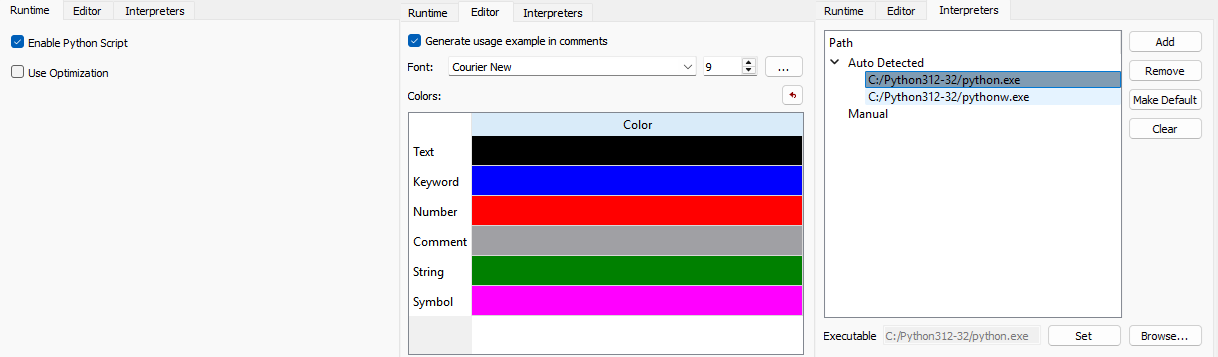
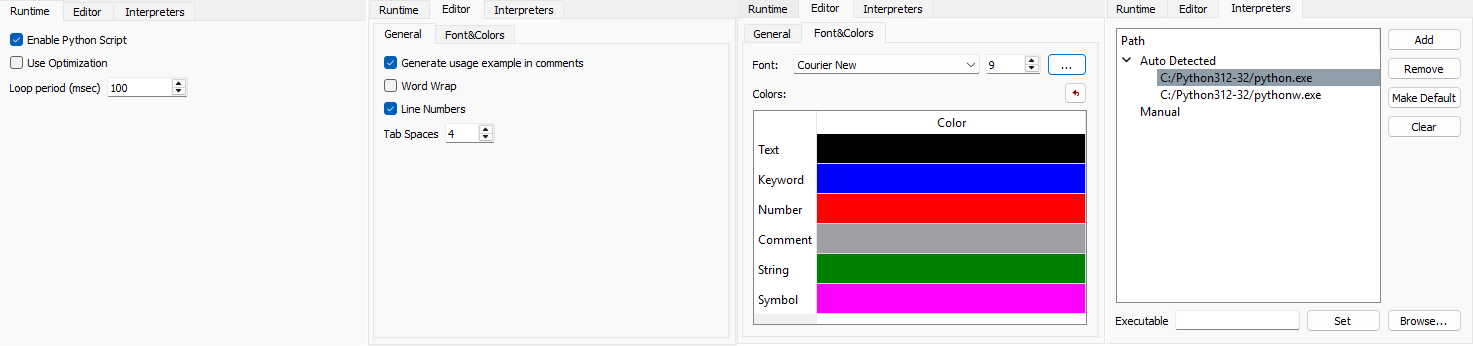
Update docs

diff --git a/doc/input/server/server.md b/doc/input/server/server.md
@@ -3,16 +3,18 @@
 # About Modbus Server {#sec_server_about}
 
 The server implements Modbus server device and works like Modbus simulator. 
-However, the server can  not only simulate single device, but can simulate several devices that can be connected to 
-a single network, which is especially useful when working with RTU and ASCII protocols,
-when access to all Modbus servers 
-is realized through a single serial port. However, it can also be useful to simulate Modbus network using the 
-TCP version of the protocol, for example, if you use the TCP->RTU bridge, Modbus server can replace this bridge with 
-remote devices for testing purposes.
+However, the server can  not only simulate single device, but can simulate
+several devices that can be connected to a single network,
+which is especially useful when working with RTU and ASCII protocols,
+when access to all Modbus servers is realized through a single serial port.
+However, it can also be useful to simulate Modbus network using the 
+TCP version of the protocol, for example, if you use the TCP->RTU bridge,
+Modbus server can replace this bridge with remote devices for testing purposes.
 
-All work is performing within a single project. The main entities in the project are Port, Device, 
-DataViewItem and Action.
-Port contains network settings for both TCP/IP and serial ports. Device contains settings for a single device 
+All work is performed within a single project.
+The main entities in the project are Port, Device, DataViewItem and Action.
+Port contains network settings for both TCP/IP and serial ports.
+Device contains settings for a single device 
 (such as Modbus Unit Address, memory size etc).  
 The DataViewItem contains a single data unit to be read/write from the device and has many formats to represent 
 the current data. Action provides simulation capabilities (automatic change of device memory values).
@@ -447,7 +449,7 @@ For port it displays port main settings, for device it displays device reference
 (Modbus device unit address(es) ).
 
 * `Modbus adr. notation` - using this setting item address representation can be changed:
-`Modbus (1-based)` or `IEC 61131-3 (0-based)`
+`Modbus (1-based)`, `IEC 61131-3 (0-based)` or `IEC 61131-3 Hex (0-based)`.
 
 ### DataView 
 
@@ -480,12 +482,16 @@ Assumed that date and time are 21 May 2001 14:13:09.120.
 #### Runtime
 
 * `Enable Python Script` - enables/disables Python script execution. 
-* `Use optimization` - enables/disables Python script source file generation. 
+* `Use Optimization` - enable/disable caching of script file generation;
+* `Loop period` - `Loop`-script execution period (in millisec);
 
 #### Editor
 
 * `Generate usage examples in comments` - generate examples of script usage in comment in the head of script.
 Maybe useful for first time using script. 
+* `Word Wrap` - enable/disable word wrap;
+* `Line Numbers` - enable/disable `Line Numbers` panel;
+* `Tab Spaces` - count of `Space` symbols for `Tab`-button;
 * `Font` - font setting for script source code displaying. 
 * `Color` - color setting for script source code displaying. 
 Included color schema for every time of script lexema (editing by mouse double-click)
@@ -529,6 +535,8 @@ Window for managing interpreter installed in operation system.
 * `Timeout (first byte)` - timeout waiting first byte for serial port;
 * `Timeout (inter byte)` - timeout waiting next bytes after first bytes was received, 
 after this timeout completes Modbus packet consider finished and return to process.
+* `Enable broadcast for 0-unit address` - if option is set then `0`-unit address
+will be recognized as broadcast and no response will be send.
 
 ## Device dialog
 
@@ -686,10 +694,10 @@ Every object has set of get/set function to work with different data types:
 
 Examples:
 ```python
- v = mem0x.getint8(0)
- mem1x.setint16(1, -1)
- mem3x.setuint16(0, 65535)
- mem4x.setdouble(10, 2.71828)
+v = mem0x.getint8(0)
+mem1x.setint16(1, -1)
+mem3x.setuint16(0, 65535)
+mem4x.setdouble(10, 2.71828)
 ```
 
 Also index operation is supported.
@@ -708,18 +716,29 @@ Scripting gives you access into current device settings by global object `mbdevi
 which has type `mbserver._MbDevice`. Example of usage:
 
 ```
- print("Device name is " + mbdevice.getname())
- print("Device exception status is " + hex(mbdevice.getexcstatus()))
- print("Device count of coils is " + hex(mbdevice.getcount0x()))
- print("Device count of discrete inputs is " + hex(mbdevice.getcount1x()))
- print("Device count of input registers is " + hex(mbdevice.getcount3x()))
- print("Device count of holding registers is " + hex(mbdevice.getcount4x()))
+print("Device name is " + mbdevice.getname())
+print("Device exception status is " + hex(mbdevice.getexcstatus()))
+print("Device count of coils is " + hex(mbdevice.getcount0x()))
+print("Device count of discrete inputs is " + hex(mbdevice.getcount1x()))
+print("Device count of input registers is " + hex(mbdevice.getcount3x()))
+print("Device count of holding registers is " + hex(mbdevice.getcount4x()))
+```
+
+Also `mem0x`, `mem1x`, `mem3x`, `mem4x` can be accessed through `mbdevice` object:
+
+```py
+new_mem0x_ref = mbdevice.getmem0x()
+new_mem1x_ref = mbdevice.getmem1x()
+new_mem3x_ref = mbdevice.getmem3x()
+new_mem4x_ref = mbdevice.getmem4x()
 ```
 
 ## Python `import` directories
 
 You need to use Python modules in case of big simulation projects.
-Or maybe you want to use you own Python modules for different devices within
+Or maybe you want to use your own Python modules for different devices within
 single project or for different projects.
+
 By default server add directory `<your_bin_folder>/script/server` into import path.
-Also current folder where `*.pjs` project file is located added into import path.
+
+Also current folder (where `*.pjs` project file is located) is added into import path.

diff --git a/doc/input/client/client.md b/doc/input/client/client.md
@@ -1,14 +1,20 @@
 \page sec_client Client
 
 # About Modbus Client
-The client implements access to a remote Modbus device. However, the client can work not only with one device, 
-but with several devices that can be connected to a single network, which is especially useful when working 
-with RTU and ASCII protocols, when access to all Modbus servers is realized through a single serial port. 
-However, it can also be useful when using the TCP version of the protocol, for example, if you use the TCP->RTU bridge.
 
-All work is done within a single project. The main entities in the project are Port, Device and DataViewItem. 
-Port contains network settings for both TCP/IP and serial ports. Device contains settings for a single device 
-(such as Modbus Unit Address, etc.).  The DataViewItem contains a single data unit to be read from the remote 
+The client implements access to a remote Modbus device.
+However, the client can work not only with one device, 
+but with several devices that can be connected to a single network,
+which is especially useful when working with RTU and ASCII protocols,
+when access to all Modbus servers is realized through a single serial port. 
+However, it can also be useful when using the TCP version of the protocol,
+for example, if you use the TCP->RTU bridge.
+
+All work is performed within a single project.
+The main entities in the project are Port, Device and DataViewItem. 
+Port contains network settings for both TCP/IP and serial ports.
+Device contains settings for a single device (such as Modbus Unit Address, etc.).
+The DataViewItem contains a single data unit to be read from the remote 
 device and has many formats to represent the current data.
 
 # Quickstart
@@ -31,8 +37,9 @@ In this dialog box, you can set the network settings for the port.
 
 ## Device
 
-To change the device settings, you need to double click left mouse button on the device name in the project tree 
-(or use the menu `Device->Edit Device...`). The device must be selected in the project tree. To add a new device, 
+To change the device settings, you need to double click left mouse button on the device name
+in the project tree (or use the menu `Device->Edit Device...`).
+The device must be selected in the project tree. To add a new device, 
 select `Device->New Device...` or `Port->New Device...` to immediately bind this device to the selected port.
 
 ![](client_device_dialog.png)
@@ -276,9 +283,17 @@ In this window individual message parameters can be set such as data address and
 and message response data can be reviewed with different formats. Message transmit (Tx) and 
 receive (Rx)  byte data can be viewed in corresponding `Tx` and `Rx`- labels.
 
-Message data (bits and registers values)  separated by comma with specified format can be viewed in the Data window for read function and set for write functions.
+`Device/Port` switch allows to choose message recipient: specified device or
+port with unit address (useful for `unit=0` broadcast address)
 
-* `Device` - device which message will belong to;
+Message data (bits and registers values)  separated by comma with specified format
+can be viewed in the Data window for read function and set for write functions.
+
+* `Device` - device which message will belong to (in case of `Device` switch on);
+* `Port` - port which message will belong to (in case of `Port/Unit` switch on);
+* `Unit` - unit/slave address to which the message will be sent
+(in case of `Port/Unit` switch on).
+`unit=0` indended for broadcast address (if `Enable Broadcast` is set in the port settings);
 
 * `Function` - supported Modbus functions such as:
 * `1 ` (`0x01`) - `READ_COILS`
@@ -367,7 +382,7 @@ For port it displays port main settings, for device it displays device reference
 (Modbus device unit address(es) ).
 
 * `Modbus adr. notation` - using this setting item address representation can be changed:
-`Modbus (1-based)` or `IEC 61131-3 (0-based)`
+`Modbus (1-based)`, `IEC 61131-3 (0-based)` or `IEC 61131-3 Hex (0-based)`.
 
 ### DataView 
 
@@ -427,6 +442,8 @@ Assumed that date and time are 21 May 2001 14:13:09.120.
 * `Timeout (first byte)` - timeout waiting first byte for serial port;
 * `Timeout (inter byte)` - timeout waiting next bytes after first bytes was received, 
 after this timeout completes Modbus packet consider finished and return to process.
+* `Enable broadcast for 0-unit address` - if option is set then `0`-unit address
+will be recognized as broadcast and no response will be expected.
 
 ## Device dialog
 

diff --git a/doc/input/mainpage.md b/doc/input/mainpage.md
@@ -36,6 +36,9 @@ __*New in version 0.4*__:
 > IEC61131-3 addressing type is available. There is a setting that allows you to choose between
 standard Modbus (1 based) and IEC61131-3 (0 based) addressing types.
 
+__*New in version 0.4.1*__:
+> IEC61131-3 Hex (0 based) addressing type is available, e.g. `%I0000h`, `%Q001Fh`, `%IW0B7Ch`, `%MW1A01h`.
+
 Memory types decribed below:
 
 * `0x` - intended for coils (discrete outputs, boolean), corresponding modern PLC notation is `%%M` or `%%Q`
@@ -55,9 +58,9 @@ corresponding access function is `READ_INPUT_REGISTERS`(`4`);
 corresponding access functions are `READ_HOLDING_REGISTERS`(`3`) and `WRITE_MULTIPLE_REGISTERS`(`16`, `0x10`);
 
 Addressing examples:
-| Memory type       | Standard (1 based) | IEC 61131-3 (0 based)
-|-------------------|--------------------|-------------------------
-| Coils             | `000001`           | `%%Q0` 
-| Discrete inputs   | `100001`           | `%%I0`
-| Input registers   | `300001`           | `%%IW0`
-| Holding registers | `400001`           | `%%MW0`
+| Memory type       | Standard (1 based) | IEC 61131-3 (0 based)| IEC 61131-3 Hex (0 based)
+|-------------------|--------------------|----------------------|---------------------------
+| Coils             | `000001`           | `%Q0`                | `%Q0000h`                 
+| Discrete inputs   | `100016`           | `%I15`               | `%I000Fh`                
+| Input registers   | `300017`           | `%IW16`              | `%IW0010h`               
+| Holding registers | `406658`           | `%MW6657`            | `%MW1A01h`               
